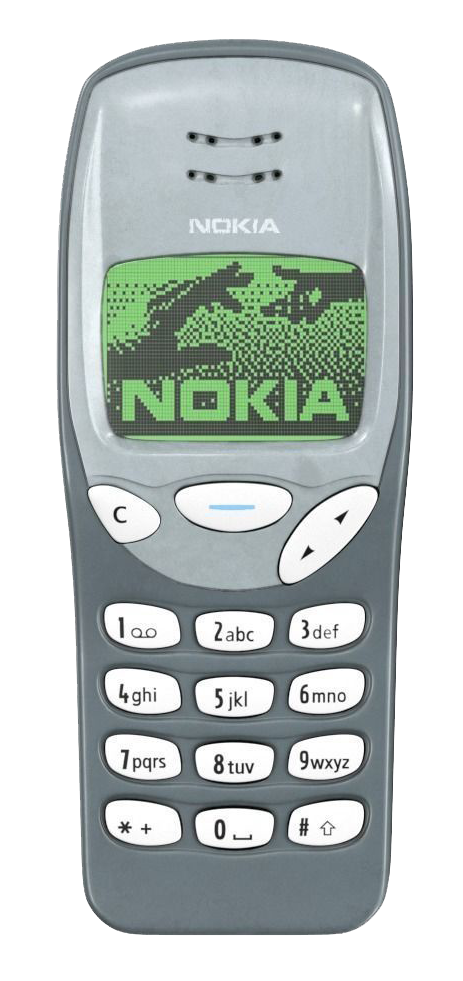
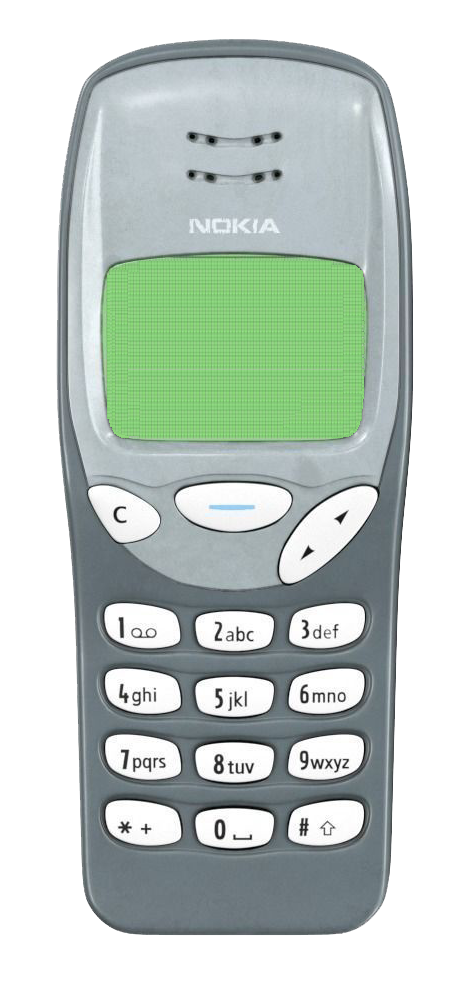
Nokia blank screen

Changed region(s): [[0.2117, 0.2446, 0.7862, 0.4587]]

diff --git a/lib/main.dart b/lib/main.dart
@@ -53,7 +53,7 @@ class _HomePageState extends State<HomePage> {
                 },
                 child: Container(
                   child: Image.asset(
-                    'images/nokia4.png',
+                    'images/nokia1.png',
                     height: 340.0,
                     fit: BoxFit.cover,
                   ),
